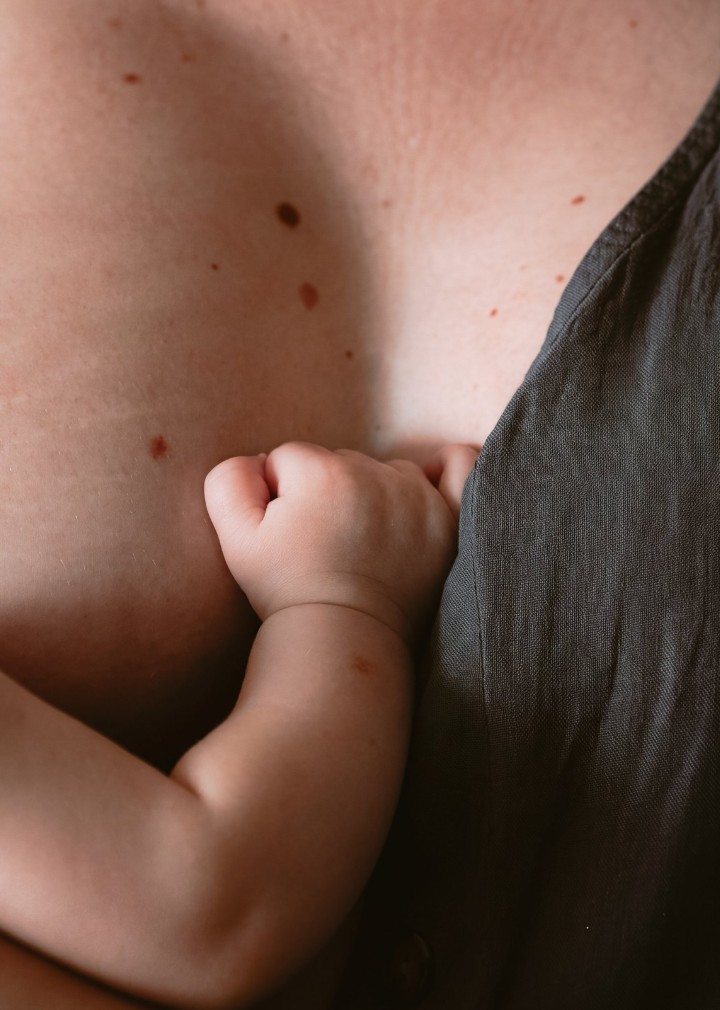
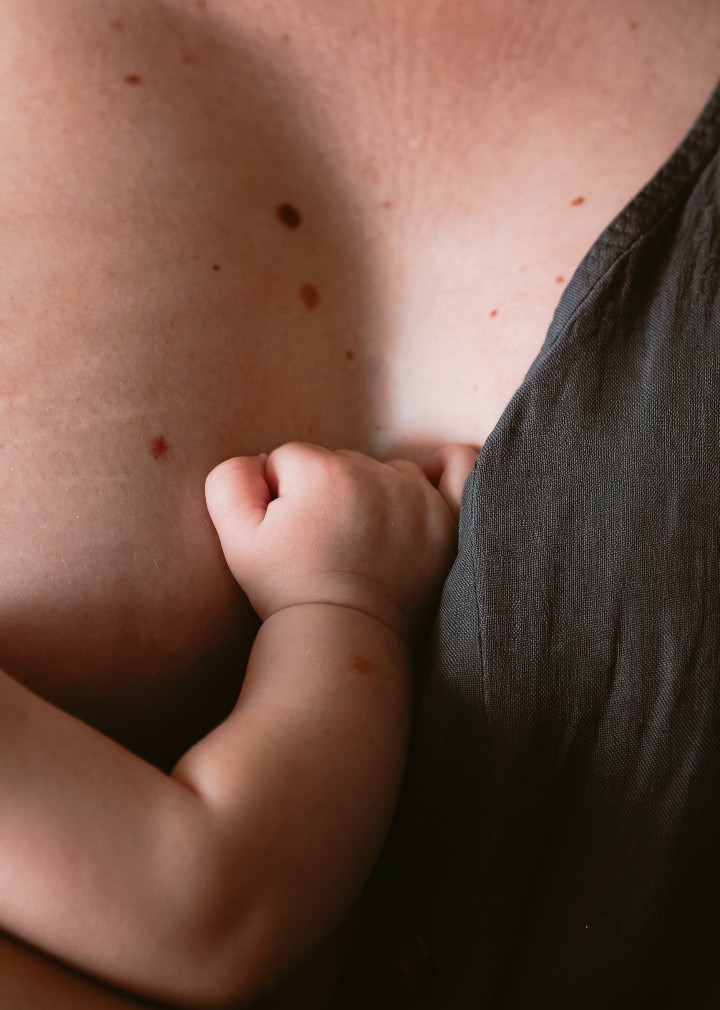
Maneta amb la nova edició en color
Claude-Session: https://claude.ai/code/session_01Gu4fKh15S1mJkh4ThjJ3MW

Changed region(s): [[0.6111, 0.2762, 1.0, 0.798], [0.0917, 0.9515, 0.1833, 0.9822], [0.0, 0.9208, 0.0917, 0.9515]]

diff --git a/index.html b/index.html
@@ -481,7 +481,7 @@ body{font-weight:400}
 <header class="bar" aria-hidden="true"><a class="wm" href="#inici">Pau Fotografia</a><nav><a href="#contacte" data-t="cont">Contacte</a></nav></header>
 <main class="page" id="inici">
   <section class="hero">
-    <div class="hgrid" aria-hidden="true"><i class="v1"></i><i class="v2"></i><i class="h1l"></i><i class="h2l"></i><i class="h0l"></i></div><div class="hbg"><picture><img src="/pack/hero.jpg?v=20261119m" alt="Pau amb ulleres, fons desenfocat i una finestra nítida sobre mig rostre" fetchpriority="high"></picture></div>
+    <div class="hgrid" aria-hidden="true"><i class="v1"></i><i class="v2"></i><i class="h1l"></i><i class="h2l"></i><i class="h0l"></i></div><div class="hbg"><picture><img src="/pack/hero.jpg?v=20261119n" alt="Pau amb ulleres, fons desenfocat i una finestra nítida sobre mig rostre" fetchpriority="high"></picture></div>
     <div class="top"><div class="ctrls"><div class="toggle lang" role="group" aria-label="Idioma"><button class="on" data-lang="ca">CAT</button><span>|</span><button data-lang="es">ESP</button><span>|</span><button data-lang="en">ENG</button></div></div></div>
     <h1>Pau Fotografia</h1>
     <div class="tg" data-t="tag">Fotògraf social i<br class="m"> documental</div>
@@ -490,13 +490,13 @@ body{font-weight:400}
     <div class="com"><div class="lb" data-t="com">Com treballo</div><p class="body" data-t="ct">A través de la <button class="term" type="button" aria-haspopup="dialog">fotografia documental<i aria-hidden="true">+</i></button>, <strong>sense estudi ni decorats</strong>: a casa vostra o en aquell lloc on us sentiu com a casa. L'objectiu és que <strong>gaudiu de l'estona</strong> i us oblideu, tant com sigui possible, que hi ha una càmera al davant.</p></div>
   </section>
   <div class="hl"></div>
-  <div class="slider multi sl-elvi" style="aspect-ratio:1080/1150"><div class="track"><figure class="slide"><img class="b" data-v="elvi" src="/pack/elvi-color.jpg?v=20261119m" alt="Elvi somrient amb un floc de cabell davant la cara" loading="eager" style="object-position:50% 30%"><img class="o" data-v="elvi" src="/pack/elvi-bn.jpg?v=20261119m" alt="" aria-hidden="true" loading="lazy" style="object-position:50% 30%"><button class="sw" type="button" aria-label="Veure en blanc i negre"><i></i></button></figure><figure class="slide"><img class="b" data-v="elvi-01" src="/pack/elvi-01-color.jpg?v=20261119m" alt="Elvi amb les mans als cabells" loading="lazy" style="object-position:50% 30%"><img class="o" data-v="elvi-01" src="/pack/elvi-01-bn.jpg?v=20261119m" alt="" aria-hidden="true" loading="lazy" style="object-position:50% 30%"><button class="sw" type="button" aria-label="Veure en blanc i negre"><i></i></button></figure><figure class="slide"><img class="b" data-v="elvi-03" src="/pack/elvi-03-color.jpg?v=20261119m" alt="Elvi mirant de reüll" loading="lazy" style="object-position:50% 30%"><img class="o" data-v="elvi-03" src="/pack/elvi-03-bn.jpg?v=20261119m" alt="" aria-hidden="true" loading="lazy" style="object-position:50% 30%"><button class="sw" type="button" aria-label="Veure en blanc i negre"><i></i></button></figure><figure class="slide"><img class="b" data-v="elvi-04" src="/pack/elvi-04-color.jpg?v=20261119m" alt="Elvi de perfil a la finestra" loading="lazy" style="object-position:50% 30%"><img class="o" data-v="elvi-04" src="/pack/elvi-04-bn.jpg?v=20261119m" alt="" aria-hidden="true" loading="lazy" style="object-position:50% 30%"><button class="sw" type="button" aria-label="Veure en blanc i negre"><i></i></button></figure><figure class="slide"><img class="b" data-v="elvi-05" src="/pack/elvi-05-color.jpg?v=20261119m" alt="Elvi amb la llum de la cortina" loading="lazy" style="object-position:50% 30%"><img class="o" data-v="elvi-05" src="/pack/elvi-05-bn.jpg?v=20261119m" alt="" aria-hidden="true" loading="lazy" style="object-position:50% 30%"><button class="sw" type="button" aria-label="Veure en blanc i negre"><i></i></button></figure></div><div class="dots"><i class=on></i><i></i><i></i><i></i><i></i></div><div class="count">1/5</div><button class="nav prev" aria-label="Anterior">‹</button><button class="nav next" aria-label="Següent">›</button></div>
+  <div class="slider multi sl-elvi" style="aspect-ratio:1080/1150"><div class="track"><figure class="slide"><img class="b" data-v="elvi" src="/pack/elvi-color.jpg?v=20261119n" alt="Elvi somrient amb un floc de cabell davant la cara" loading="eager" style="object-position:50% 30%"><img class="o" data-v="elvi" src="/pack/elvi-bn.jpg?v=20261119n" alt="" aria-hidden="true" loading="lazy" style="object-position:50% 30%"><button class="sw" type="button" aria-label="Veure en blanc i negre"><i></i></button></figure><figure class="slide"><img class="b" data-v="elvi-01" src="/pack/elvi-01-color.jpg?v=20261119n" alt="Elvi amb les mans als cabells" loading="lazy" style="object-position:50% 30%"><img class="o" data-v="elvi-01" src="/pack/elvi-01-bn.jpg?v=20261119n" alt="" aria-hidden="true" loading="lazy" style="object-position:50% 30%"><button class="sw" type="button" aria-label="Veure en blanc i negre"><i></i></button></figure><figure class="slide"><img class="b" data-v="elvi-03" src="/pack/elvi-03-color.jpg?v=20261119n" alt="Elvi mirant de reüll" loading="lazy" style="object-position:50% 30%"><img class="o" data-v="elvi-03" src="/pack/elvi-03-bn.jpg?v=20261119n" alt="" aria-hidden="true" loading="lazy" style="object-position:50% 30%"><button class="sw" type="button" aria-label="Veure en blanc i negre"><i></i></button></figure><figure class="slide"><img class="b" data-v="elvi-04" src="/pack/elvi-04-color.jpg?v=20261119n" alt="Elvi de perfil a la finestra" loading="lazy" style="object-position:50% 30%"><img class="o" data-v="elvi-04" src="/pack/elvi-04-bn.jpg?v=20261119n" alt="" aria-hidden="true" loading="lazy" style="object-position:50% 30%"><button class="sw" type="button" aria-label="Veure en blanc i negre"><i></i></button></figure><figure class="slide"><img class="b" data-v="elvi-05" src="/pack/elvi-05-color.jpg?v=20261119n" alt="Elvi amb la llum de la cortina" loading="lazy" style="object-position:50% 30%"><img class="o" data-v="elvi-05" src="/pack/elvi-05-bn.jpg?v=20261119n" alt="" aria-hidden="true" loading="lazy" style="object-position:50% 30%"><button class="sw" type="button" aria-label="Veure en blanc i negre"><i></i></button></figure></div><div class="dots"><i class=on></i><i></i><i></i><i></i><i></i></div><div class="count">1/5</div><button class="nav prev" aria-label="Anterior">‹</button><button class="nav next" aria-label="Següent">›</button></div>
   <section class="com1m pad"><div class="lb" data-t="com">Com treballo</div><p class="body" data-t="ct">A través de la <button class="term" type="button" aria-haspopup="dialog">fotografia documental<i aria-hidden="true">+</i></button>, <strong>sense estudi ni decorats</strong>: a casa vostra o en aquell lloc on us sentiu com a casa. L'objectiu és que <strong>gaudiu de l'estona</strong> i us oblideu, tant com sigui possible, que hi ha una càmera al davant.</p><p class="body dk" data-t="ct2"><strong>M’adapto al vostre ritme</strong>, perquè cada persona és un món i necessita el seu temps per relaxar-se i sentir-se còmoda. És llavors, quan <strong>simplement sou vosaltres</strong>, que apareixen les imatges que <strong>expliquen de veritat la vostra història</strong>.</p></section>
-  <section class="com2 pad"><p class="body" data-t="ct2"><strong>M’adapto al vostre ritme</strong>, perquè cada persona és un món i necessita el seu temps per relaxar-se i sentir-se còmoda. És llavors, quan <strong>simplement sou vosaltres</strong>, que apareixen les imatges que <strong>expliquen de veritat la vostra història</strong>.</p><div class="slider sl-man" style="aspect-ratio:720/1010"><div class="track"><figure class="slide"><img class="b" data-v="maneta" src="/pack/maneta-color.jpg?v=20261119m" alt="Mà d’un nadó sobre la pell" loading="lazy" style="object-position:50% 50%"><img class="o" data-v="maneta" src="/pack/maneta-bn.jpg?v=20261119m" alt="" aria-hidden="true" loading="lazy" style="object-position:50% 50%"><button class="sw" type="button" aria-label="Veure en blanc i negre"><i></i></button></figure></div></div></section>
+  <section class="com2 pad"><p class="body" data-t="ct2"><strong>M’adapto al vostre ritme</strong>, perquè cada persona és un món i necessita el seu temps per relaxar-se i sentir-se còmoda. És llavors, quan <strong>simplement sou vosaltres</strong>, que apareixen les imatges que <strong>expliquen de veritat la vostra història</strong>.</p><div class="slider sl-man" style="aspect-ratio:720/1010"><div class="track"><figure class="slide"><img class="b" data-v="maneta" src="/pack/maneta-color.jpg?v=20261119n" alt="Mà d’un nadó sobre la pell" loading="lazy" style="object-position:50% 50%"><img class="o" data-v="maneta" src="/pack/maneta-bn.jpg?v=20261119n" alt="" aria-hidden="true" loading="lazy" style="object-position:50% 50%"><button class="sw" type="button" aria-label="Veure en blanc i negre"><i></i></button></figure></div></div></section>
   <div class="hl"></div>
   <div class="hl"></div>
   <div class="hl"></div>
-  <div class="pair"><div class="slider multi sl-nuvis" style="aspect-ratio:540/720"><div class="track"><figure class="slide"><img class="b" data-v="nuvis" src="/pack/nuvis-color.jpg?v=20261119m" alt="Parella de nuvis rient a la porta" loading="lazy" style="object-position:50% 50%"><img class="o" data-v="nuvis" src="/pack/nuvis-bn.jpg?v=20261119m" alt="" aria-hidden="true" loading="lazy" style="object-position:50% 50%"><button class="sw" type="button" aria-label="Veure en blanc i negre"><i></i></button></figure><figure class="slide"><img class="b" data-v="casament-pandemia-05" src="/pack/casament-pandemia-05-color.jpg?v=20261119m" alt="Nuvis amb mascareta" loading="lazy" style="object-position:50% 50%"><img class="o" data-v="casament-pandemia-05" src="/pack/casament-pandemia-05-bn.jpg?v=20261119m" alt="" aria-hidden="true" loading="lazy" style="object-position:50% 50%"><button class="sw" type="button" aria-label="Veure en blanc i negre"><i></i></button></figure><figure class="slide mono"><img class="b" data-v="casament-pandemia-01" src="/pack/casament-pandemia-01-bn.jpg?v=20261119m" alt="Pentinat davant del mirall" loading="lazy" style="object-position:50% 50%"></figure><figure class="slide"><img class="b" data-v="casament-pandemia-02" src="/pack/casament-pandemia-02-color.jpg?v=20261119m" alt="Ajustant el vestit" loading="lazy" style="object-position:50% 87%"><img class="o" data-v="casament-pandemia-02" src="/pack/casament-pandemia-02-bn.jpg?v=20261119m" alt="" aria-hidden="true" loading="lazy" style="object-position:50% 87%"><button class="sw" type="button" aria-label="Veure en blanc i negre"><i></i></button></figure><figure class="slide mono"><img class="b" data-v="casament-pandemia-08" src="/pack/casament-pandemia-08-bn.jpg?v=20261119m" alt="La cerimònia" loading="lazy" style="object-position:50% 50%"></figure><figure class="slide"><img class="b" data-v="casament-pandemia-03" src="/pack/casament-pandemia-03-color.jpg?v=20261119m" alt="Baixant les escales" loading="lazy" style="object-position:50% 50%"><img class="o" data-v="casament-pandemia-03" src="/pack/casament-pandemia-03-bn.jpg?v=20261119m" alt="" aria-hidden="true" loading="lazy" style="object-position:50% 50%"><button class="sw" type="button" aria-label="Veure en blanc i negre"><i></i></button></figure><figure class="slide mono"><img class="b" data-v="casament-pandemia-04" src="/pack/casament-pandemia-04-bn.jpg?v=20261119m" alt="Sortida entre arròs" loading="lazy" style="object-position:50% 50%"></figure><figure class="slide"><img class="b" data-v="casament-pandemia-09" src="/pack/casament-pandemia-09-color.jpg?v=20261119m" alt="Rient a la porta" loading="lazy" style="object-position:50% 50%"><img class="o" data-v="casament-pandemia-09" src="/pack/casament-pandemia-09-bn.jpg?v=20261119m" alt="" aria-hidden="true" loading="lazy" style="object-position:50% 50%"><button class="sw" type="button" aria-label="Veure en blanc i negre"><i></i></button></figure></div><div class="dots"><i class=on></i><i></i><i></i><i></i><i></i><i></i><i></i><i></i></div><div class="count">1/8</div><button class="nav prev" aria-label="Anterior">‹</button><button class="nav next" aria-label="Següent">›</button></div><div class="slider multi sl-maneta" style="aspect-ratio:540/720"><div class="track"><figure class="slide"><img class="b" data-v="bebe-01" src="/pack/bebe-01-color.jpg?v=20261119m" alt="Un germà gran mirant el nadó" loading="lazy" style="object-position:50% 45%"><img class="o" data-v="bebe-01" src="/pack/bebe-01-bn.jpg?v=20261119m" alt="" aria-hidden="true" loading="lazy" style="object-position:50% 45%"><button class="sw" type="button" aria-label="Veure en blanc i negre"><i></i></button></figure><figure class="slide mono"><img class="b" data-v="bebe-02" src="/pack/bebe-02-bn.jpg?v=20261119m" alt="Un nadó mamant als braços de la mare" loading="lazy" style="object-position:50% 40%"></figure><figure class="slide mono"><img class="b" data-v="bebe-03" src="/pack/bebe-03-bn.jpg?v=20261119m" alt="El braç i el puny d’un nadó" loading="lazy" style="object-position:50% 50%"></figure><figure class="slide mono"><img class="b" data-v="familia-05" src="/pack/familia-05-bn.jpg?v=20261119m" alt="Peus petits" loading="lazy" style="object-position:50% 50%"></figure><figure class="slide"><img class="b" data-v="familia-07" src="/pack/familia-07-color.jpg?v=20261119m" alt="La mà a l’esquena" loading="lazy" style="object-position:50% 50%"><img class="o" data-v="familia-07" src="/pack/familia-07-bn.jpg?v=20261119m" alt="" aria-hidden="true" loading="lazy" style="object-position:50% 50%"><button class="sw" type="button" aria-label="Veure en blanc i negre"><i></i></button></figure></div><div class="dots"><i class=on></i><i></i><i></i><i></i><i></i></div><div class="count">1/5</div><button class="nav prev" aria-label="Anterior">‹</button><button class="nav next" aria-label="Següent">›</button></div></div>
+  <div class="pair"><div class="slider multi sl-nuvis" style="aspect-ratio:540/720"><div class="track"><figure class="slide"><img class="b" data-v="nuvis" src="/pack/nuvis-color.jpg?v=20261119n" alt="Parella de nuvis rient a la porta" loading="lazy" style="object-position:50% 50%"><img class="o" data-v="nuvis" src="/pack/nuvis-bn.jpg?v=20261119n" alt="" aria-hidden="true" loading="lazy" style="object-position:50% 50%"><button class="sw" type="button" aria-label="Veure en blanc i negre"><i></i></button></figure><figure class="slide"><img class="b" data-v="casament-pandemia-05" src="/pack/casament-pandemia-05-color.jpg?v=20261119n" alt="Nuvis amb mascareta" loading="lazy" style="object-position:50% 50%"><img class="o" data-v="casament-pandemia-05" src="/pack/casament-pandemia-05-bn.jpg?v=20261119n" alt="" aria-hidden="true" loading="lazy" style="object-position:50% 50%"><button class="sw" type="button" aria-label="Veure en blanc i negre"><i></i></button></figure><figure class="slide mono"><img class="b" data-v="casament-pandemia-01" src="/pack/casament-pandemia-01-bn.jpg?v=20261119n" alt="Pentinat davant del mirall" loading="lazy" style="object-position:50% 50%"></figure><figure class="slide"><img class="b" data-v="casament-pandemia-02" src="/pack/casament-pandemia-02-color.jpg?v=20261119n" alt="Ajustant el vestit" loading="lazy" style="object-position:50% 87%"><img class="o" data-v="casament-pandemia-02" src="/pack/casament-pandemia-02-bn.jpg?v=20261119n" alt="" aria-hidden="true" loading="lazy" style="object-position:50% 87%"><button class="sw" type="button" aria-label="Veure en blanc i negre"><i></i></button></figure><figure class="slide mono"><img class="b" data-v="casament-pandemia-08" src="/pack/casament-pandemia-08-bn.jpg?v=20261119n" alt="La cerimònia" loading="lazy" style="object-position:50% 50%"></figure><figure class="slide"><img class="b" data-v="casament-pandemia-03" src="/pack/casament-pandemia-03-color.jpg?v=20261119n" alt="Baixant les escales" loading="lazy" style="object-position:50% 50%"><img class="o" data-v="casament-pandemia-03" src="/pack/casament-pandemia-03-bn.jpg?v=20261119n" alt="" aria-hidden="true" loading="lazy" style="object-position:50% 50%"><button class="sw" type="button" aria-label="Veure en blanc i negre"><i></i></button></figure><figure class="slide mono"><img class="b" data-v="casament-pandemia-04" src="/pack/casament-pandemia-04-bn.jpg?v=20261119n" alt="Sortida entre arròs" loading="lazy" style="object-position:50% 50%"></figure><figure class="slide"><img class="b" data-v="casament-pandemia-09" src="/pack/casament-pandemia-09-color.jpg?v=20261119n" alt="Rient a la porta" loading="lazy" style="object-position:50% 50%"><img class="o" data-v="casament-pandemia-09" src="/pack/casament-pandemia-09-bn.jpg?v=20261119n" alt="" aria-hidden="true" loading="lazy" style="object-position:50% 50%"><button class="sw" type="button" aria-label="Veure en blanc i negre"><i></i></button></figure></div><div class="dots"><i class=on></i><i></i><i></i><i></i><i></i><i></i><i></i><i></i></div><div class="count">1/8</div><button class="nav prev" aria-label="Anterior">‹</button><button class="nav next" aria-label="Següent">›</button></div><div class="slider multi sl-maneta" style="aspect-ratio:540/720"><div class="track"><figure class="slide"><img class="b" data-v="bebe-01" src="/pack/bebe-01-color.jpg?v=20261119n" alt="Un germà gran mirant el nadó" loading="lazy" style="object-position:50% 45%"><img class="o" data-v="bebe-01" src="/pack/bebe-01-bn.jpg?v=20261119n" alt="" aria-hidden="true" loading="lazy" style="object-position:50% 45%"><button class="sw" type="button" aria-label="Veure en blanc i negre"><i></i></button></figure><figure class="slide mono"><img class="b" data-v="bebe-02" src="/pack/bebe-02-bn.jpg?v=20261119n" alt="Un nadó mamant als braços de la mare" loading="lazy" style="object-position:50% 40%"></figure><figure class="slide mono"><img class="b" data-v="bebe-03" src="/pack/bebe-03-bn.jpg?v=20261119n" alt="El braç i el puny d’un nadó" loading="lazy" style="object-position:50% 50%"></figure><figure class="slide mono"><img class="b" data-v="familia-05" src="/pack/familia-05-bn.jpg?v=20261119n" alt="Peus petits" loading="lazy" style="object-position:50% 50%"></figure><figure class="slide"><img class="b" data-v="familia-07" src="/pack/familia-07-color.jpg?v=20261119n" alt="La mà a l’esquena" loading="lazy" style="object-position:50% 50%"><img class="o" data-v="familia-07" src="/pack/familia-07-bn.jpg?v=20261119n" alt="" aria-hidden="true" loading="lazy" style="object-position:50% 50%"><button class="sw" type="button" aria-label="Veure en blanc i negre"><i></i></button></figure></div><div class="dots"><i class=on></i><i></i><i></i><i></i><i></i></div><div class="count">1/5</div><button class="nav prev" aria-label="Anterior">‹</button><button class="nav next" aria-label="Següent">›</button></div></div>
   <div class="hl"></div>
   <section class="pack">
     <div class="prow"><button class="pill" type="button" aria-haspopup="dialog"><span data-t="pack">Pack promocional – Llançament</span><i class="pplus" aria-hidden="true"></i></button><div class="price">89 €<span class="ast">*</span></div>
@@ -504,9 +504,9 @@ body{font-weight:400}
     <div class="ptypes" data-t="tipus"><span>Retrat</span><i>·</i><span>Família</span><i>·</i><span>Embaràs</span><i>·</i><span>Parella</span></div>
   </section>
   <div class="hl"></div>
-  <div class="slider sl-mocador" style="aspect-ratio:1080/720"><div class="track"><figure class="slide"><img class="b" data-v="mocador" src="/pack/mocador-color.jpg?v=20261119m" alt="Retrat d’una dona amb mocador entre el fum" loading="lazy" style="object-position:50% 40%"><img class="o" data-v="mocador" src="/pack/mocador-bn.jpg?v=20261119m" alt="" aria-hidden="true" loading="lazy" style="object-position:50% 40%"><button class="sw" type="button" aria-label="Veure en blanc i negre"><i></i></button></figure></div></div>
+  <div class="slider sl-mocador" style="aspect-ratio:1080/720"><div class="track"><figure class="slide"><img class="b" data-v="mocador" src="/pack/mocador-color.jpg?v=20261119n" alt="Retrat d’una dona amb mocador entre el fum" loading="lazy" style="object-position:50% 40%"><img class="o" data-v="mocador" src="/pack/mocador-bn.jpg?v=20261119n" alt="" aria-hidden="true" loading="lazy" style="object-position:50% 40%"><button class="sw" type="button" aria-label="Veure en blanc i negre"><i></i></button></figure></div></div>
   <div class="hl"></div>
-  <div class="pair"><div class="slider multi sl-ulleres" style="aspect-ratio:540/720"><div class="track"><figure class="slide"><img class="b" data-v="ulleres" src="/pack/ulleres-color.jpg?v=20261119m" alt="Home rient amb ulleres de sol" loading="lazy" style="object-position:50% 50%"><img class="o" data-v="ulleres" src="/pack/ulleres-bn.jpg?v=20261119m" alt="" aria-hidden="true" loading="lazy" style="object-position:50% 50%"><button class="sw" type="button" aria-label="Veure en blanc i negre"><i></i></button></figure><figure class="slide"><img class="b" data-v="llum-desembre-05" src="/pack/llum-desembre-05-color.jpg?v=20261119m" alt="Cara al sol" loading="lazy" style="object-position:64% 50%"><img class="o" data-v="llum-desembre-05" src="/pack/llum-desembre-05-bn.jpg?v=20261119m" alt="" aria-hidden="true" loading="lazy" style="object-position:64% 50%"><button class="sw" type="button" aria-label="Veure en blanc i negre"><i></i></button></figure><figure class="slide"><img class="b" data-v="llum-desembre-02" src="/pack/llum-desembre-02-color.jpg?v=20261119m" alt="Somriure amb caputxa" loading="lazy" style="object-position:52% 50%"><img class="o" data-v="llum-desembre-02" src="/pack/llum-desembre-02-bn.jpg?v=20261119m" alt="" aria-hidden="true" loading="lazy" style="object-position:52% 50%"><button class="sw" type="button" aria-label="Veure en blanc i negre"><i></i></button></figure><figure class="slide"><img class="b" data-v="llum-desembre-04" src="/pack/llum-desembre-04-color.jpg?v=20261119m" alt="Per sobre de les ulleres" loading="lazy" style="object-position:56% 50%"><img class="o" data-v="llum-desembre-04" src="/pack/llum-desembre-04-bn.jpg?v=20261119m" alt="" aria-hidden="true" loading="lazy" style="object-position:56% 50%"><button class="sw" type="button" aria-label="Veure en blanc i negre"><i></i></button></figure><figure class="slide"><img class="b" data-v="llum-desembre-01" src="/pack/llum-desembre-01-color.jpg?v=20261119m" alt="Mitja cara a la llum" loading="lazy" style="object-position:54% 50%"><img class="o" data-v="llum-desembre-01" src="/pack/llum-desembre-01-bn.jpg?v=20261119m" alt="" aria-hidden="true" loading="lazy" style="object-position:54% 50%"><button class="sw" type="button" aria-label="Veure en blanc i negre"><i></i></button></figure></div><div class="dots"><i class=on></i><i></i><i></i><i></i><i></i></div><div class="count">1/5</div><button class="nav prev" aria-label="Anterior">‹</button><button class="nav next" aria-label="Següent">›</button></div><div class="slider multi sl-confeti" style="aspect-ratio:540/720"><div class="track"><figure class="slide"><img class="b" data-v="confeti" src="/pack/confeti-color.jpg?v=20261119m" alt="Nuvis sortint entre confeti amb el ram a l’aire" loading="lazy" style="object-position:64% 50%"><img class="o" data-v="confeti" src="/pack/confeti-bn.jpg?v=20261119m" alt="" aria-hidden="true" loading="lazy" style="object-position:64% 50%"><button class="sw" type="button" aria-label="Veure en blanc i negre"><i></i></button></figure><figure class="slide"><img class="b" data-v="casament-01" src="/pack/casament-01-color.jpg?v=20261119m" alt="Sortida entre confeti" loading="lazy" style="object-position:55% 50%"><img class="o" data-v="casament-01" src="/pack/casament-01-bn.jpg?v=20261119m" alt="" aria-hidden="true" loading="lazy" style="object-position:55% 50%"><button class="sw" type="button" aria-label="Veure en blanc i negre"><i></i></button></figure></div><div class="dots"><i class=on></i><i></i></div><div class="count">1/2</div><button class="nav prev" aria-label="Anterior">‹</button><button class="nav next" aria-label="Següent">›</button></div></div>
+  <div class="pair"><div class="slider multi sl-ulleres" style="aspect-ratio:540/720"><div class="track"><figure class="slide"><img class="b" data-v="ulleres" src="/pack/ulleres-color.jpg?v=20261119n" alt="Home rient amb ulleres de sol" loading="lazy" style="object-position:50% 50%"><img class="o" data-v="ulleres" src="/pack/ulleres-bn.jpg?v=20261119n" alt="" aria-hidden="true" loading="lazy" style="object-position:50% 50%"><button class="sw" type="button" aria-label="Veure en blanc i negre"><i></i></button></figure><figure class="slide"><img class="b" data-v="llum-desembre-05" src="/pack/llum-desembre-05-color.jpg?v=20261119n" alt="Cara al sol" loading="lazy" style="object-position:64% 50%"><img class="o" data-v="llum-desembre-05" src="/pack/llum-desembre-05-bn.jpg?v=20261119n" alt="" aria-hidden="true" loading="lazy" style="object-position:64% 50%"><button class="sw" type="button" aria-label="Veure en blanc i negre"><i></i></button></figure><figure class="slide"><img class="b" data-v="llum-desembre-02" src="/pack/llum-desembre-02-color.jpg?v=20261119n" alt="Somriure amb caputxa" loading="lazy" style="object-position:52% 50%"><img class="o" data-v="llum-desembre-02" src="/pack/llum-desembre-02-bn.jpg?v=20261119n" alt="" aria-hidden="true" loading="lazy" style="object-position:52% 50%"><button class="sw" type="button" aria-label="Veure en blanc i negre"><i></i></button></figure><figure class="slide"><img class="b" data-v="llum-desembre-04" src="/pack/llum-desembre-04-color.jpg?v=20261119n" alt="Per sobre de les ulleres" loading="lazy" style="object-position:56% 50%"><img class="o" data-v="llum-desembre-04" src="/pack/llum-desembre-04-bn.jpg?v=20261119n" alt="" aria-hidden="true" loading="lazy" style="object-position:56% 50%"><button class="sw" type="button" aria-label="Veure en blanc i negre"><i></i></button></figure><figure class="slide"><img class="b" data-v="llum-desembre-01" src="/pack/llum-desembre-01-color.jpg?v=20261119n" alt="Mitja cara a la llum" loading="lazy" style="object-position:54% 50%"><img class="o" data-v="llum-desembre-01" src="/pack/llum-desembre-01-bn.jpg?v=20261119n" alt="" aria-hidden="true" loading="lazy" style="object-position:54% 50%"><button class="sw" type="button" aria-label="Veure en blanc i negre"><i></i></button></figure></div><div class="dots"><i class=on></i><i></i><i></i><i></i><i></i></div><div class="count">1/5</div><button class="nav prev" aria-label="Anterior">‹</button><button class="nav next" aria-label="Següent">›</button></div><div class="slider multi sl-confeti" style="aspect-ratio:540/720"><div class="track"><figure class="slide"><img class="b" data-v="confeti" src="/pack/confeti-color.jpg?v=20261119n" alt="Nuvis sortint entre confeti amb el ram a l’aire" loading="lazy" style="object-position:64% 50%"><img class="o" data-v="confeti" src="/pack/confeti-bn.jpg?v=20261119n" alt="" aria-hidden="true" loading="lazy" style="object-position:64% 50%"><button class="sw" type="button" aria-label="Veure en blanc i negre"><i></i></button></figure><figure class="slide"><img class="b" data-v="casament-01" src="/pack/casament-01-color.jpg?v=20261119n" alt="Sortida entre confeti" loading="lazy" style="object-position:55% 50%"><img class="o" data-v="casament-01" src="/pack/casament-01-bn.jpg?v=20261119n" alt="" aria-hidden="true" loading="lazy" style="object-position:55% 50%"><button class="sw" type="button" aria-label="Veure en blanc i negre"><i></i></button></figure></div><div class="dots"><i class=on></i><i></i></div><div class="count">1/2</div><button class="nav prev" aria-label="Anterior">‹</button><button class="nav next" aria-label="Següent">›</button></div></div>
   <div class="hl"></div>
   <section class="contact pad" id="contacte">
     <div class="gear">
@@ -540,7 +540,7 @@ document.querySelectorAll('.slider.multi').forEach(function(s){
 var MODE='color';
 function L(){var l=document.documentElement.lang;return {ca:{swb:'Veure en blanc i negre',swc:'Veure en color'},es:{swb:'Ver en blanco y negro',swc:'Ver en color'},en:{swb:'View in black and white',swc:'View in colour'}}[l]||{swb:'Veure en blanc i negre',swc:'Veure en color'}}
 function other(){return MODE==='bn'?'color':'bn'}
-function src2(o){return '/pack/'+o.dataset.v+'-'+other()+'.jpg?v=20261119m'}
+function src2(o){return '/pack/'+o.dataset.v+'-'+other()+'.jpg?v=20261119n'}
 function setX(f,x,anim){
   var o=f.querySelector('.o');if(!o.getAttribute('src'))o.src=src2(o);
   f.classList.toggle('drag',!anim);f._x=x;
